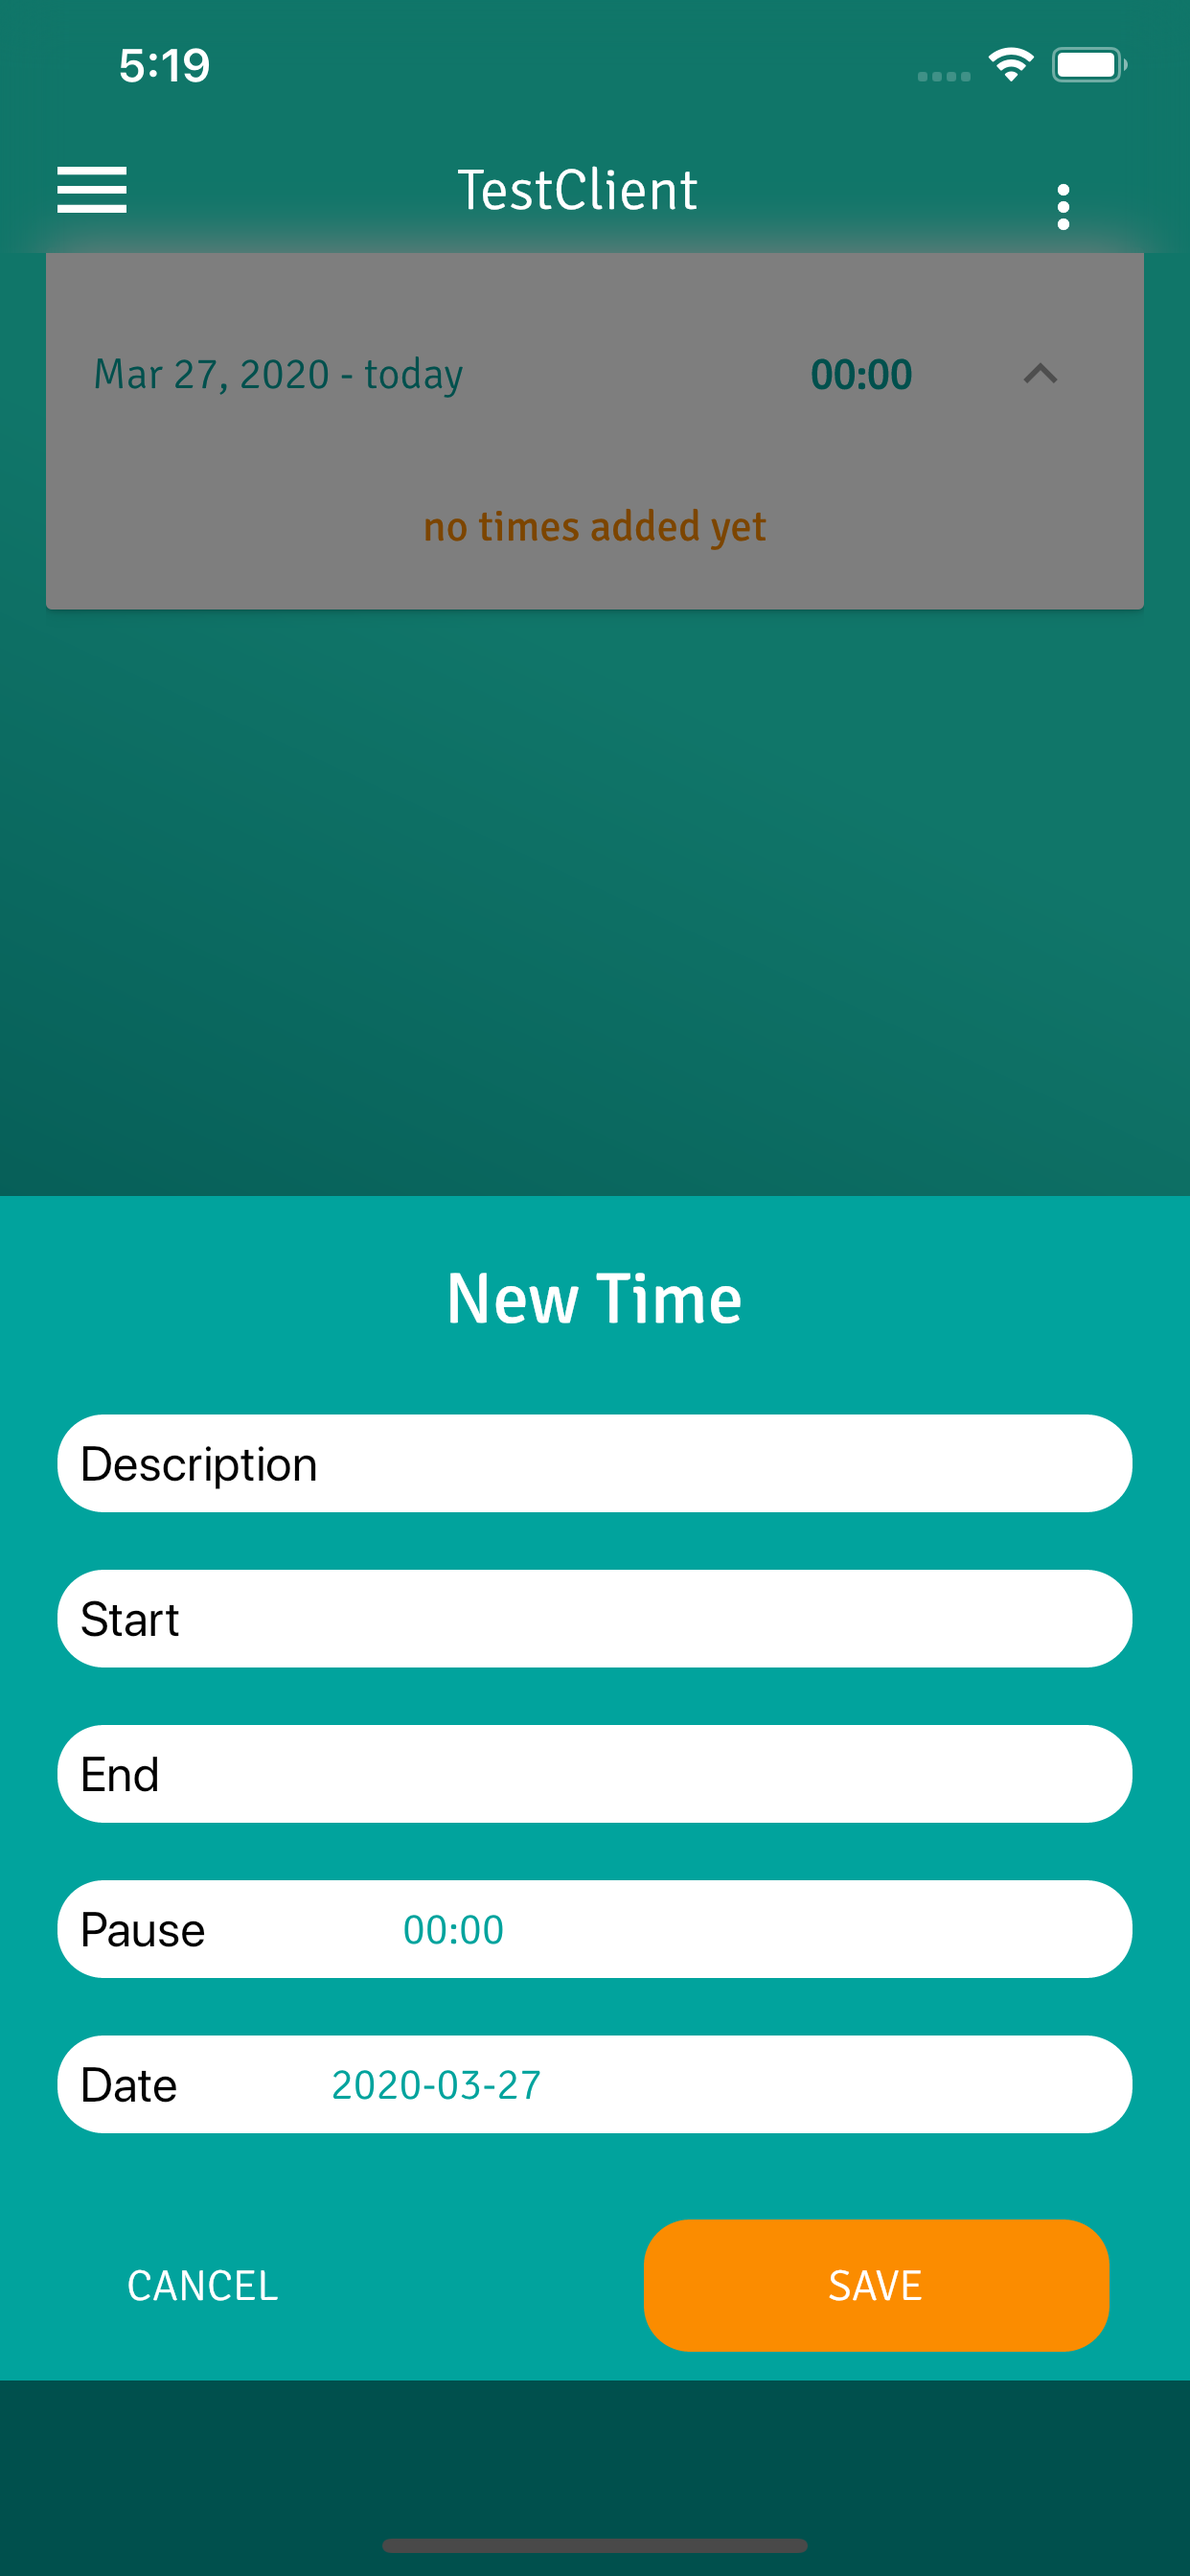
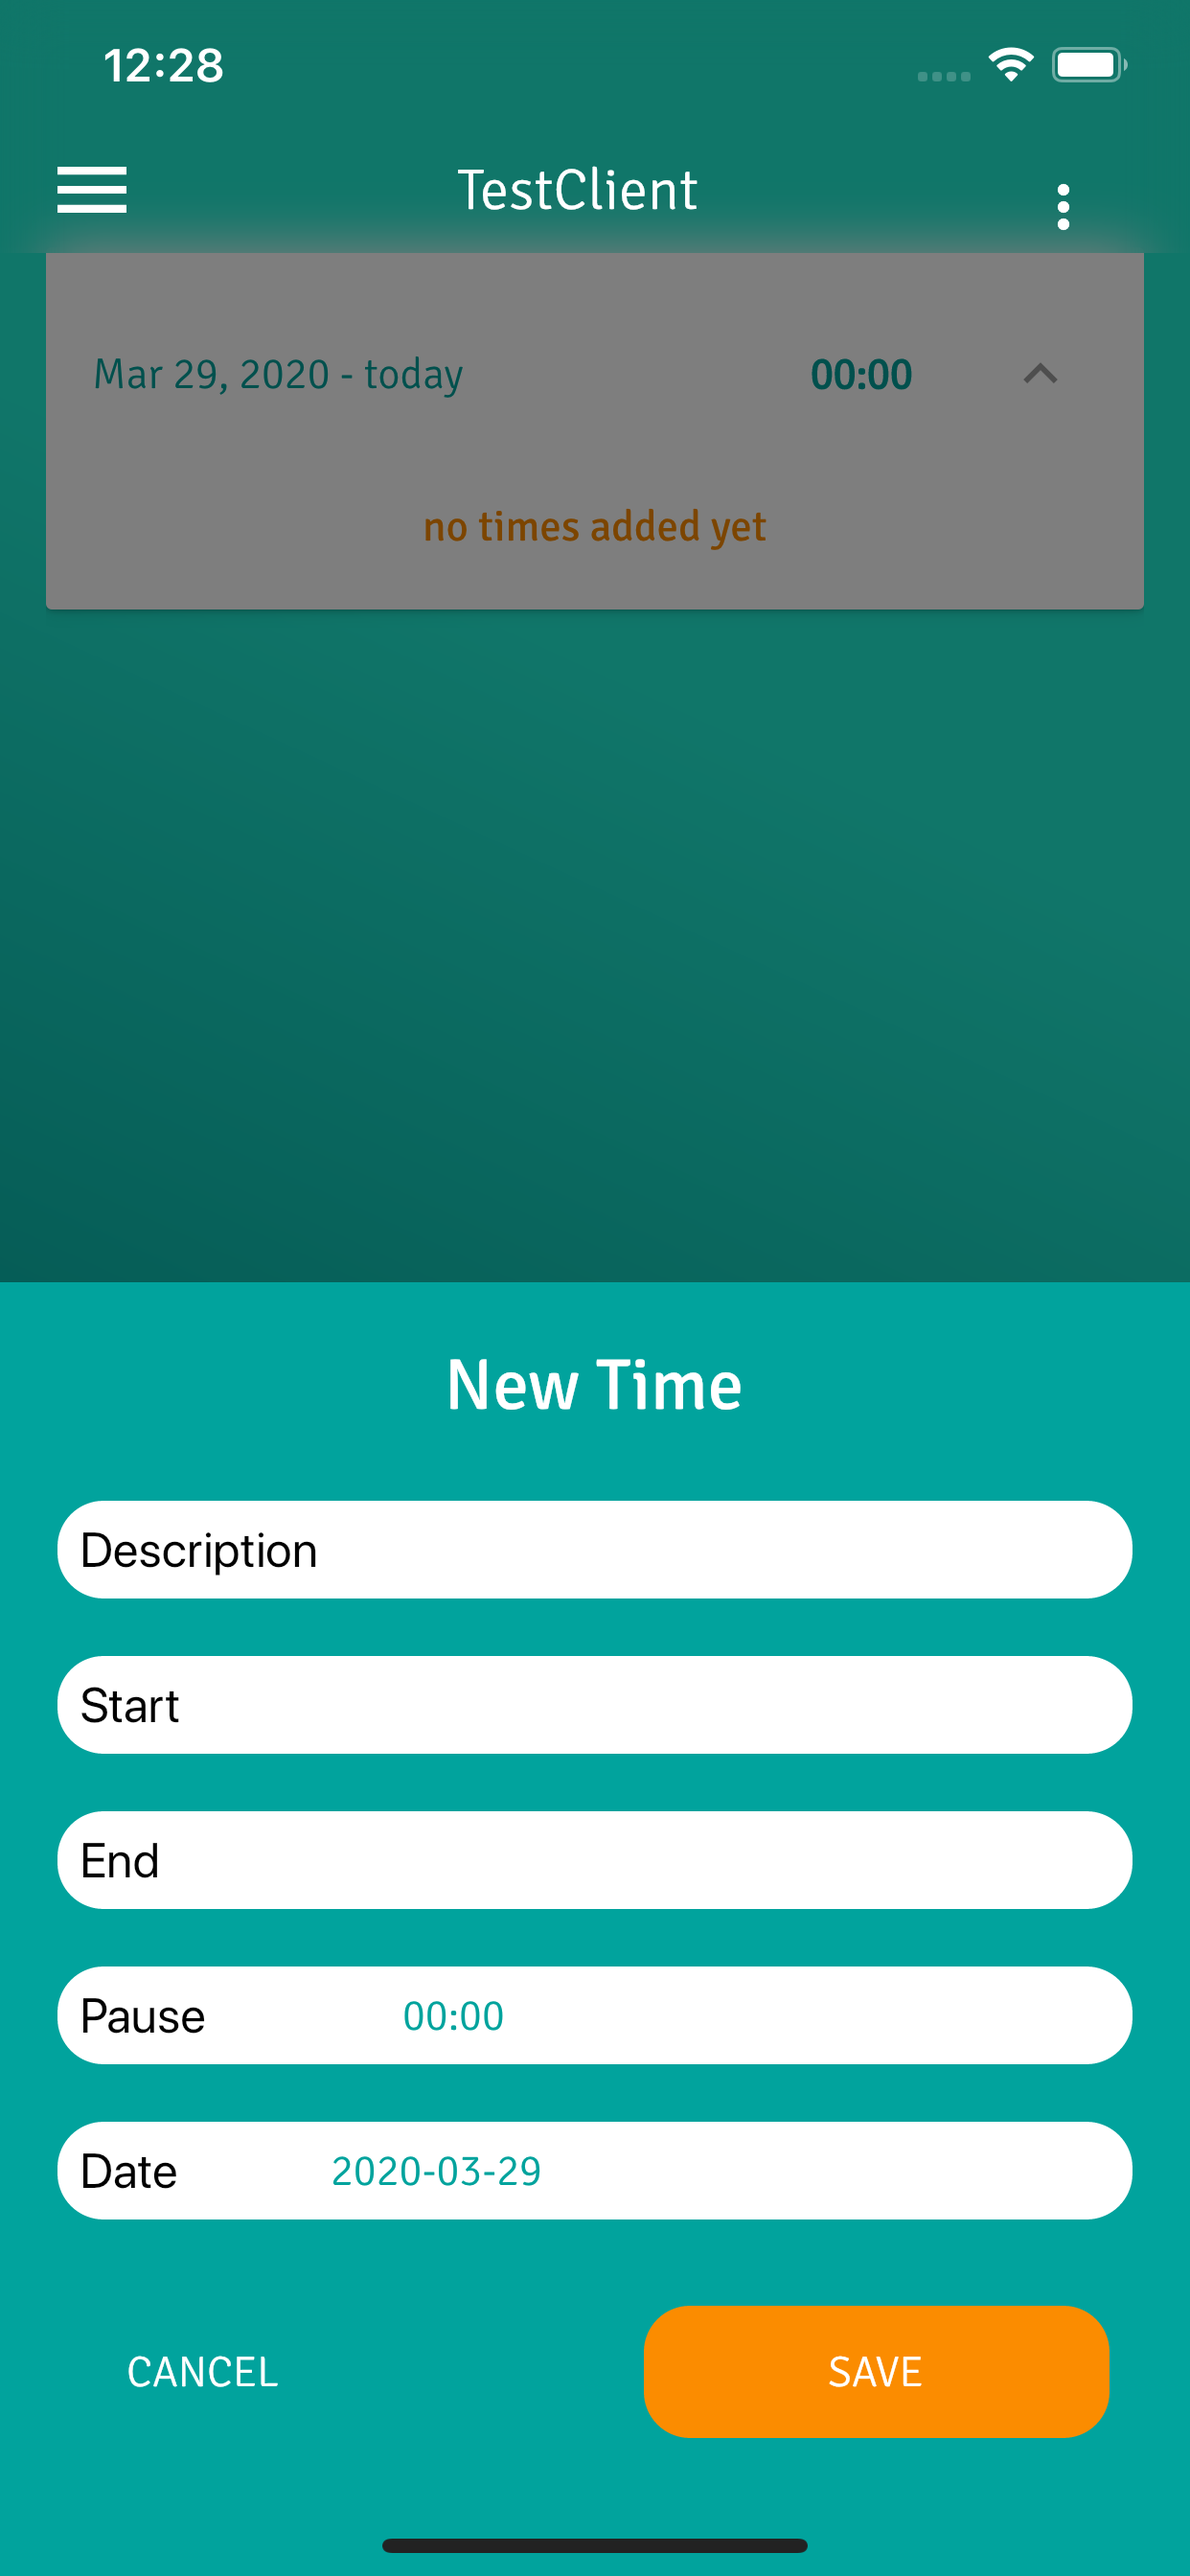
ui fixes

diff --git a/lib/screens/dialog/finish_timesheet.dart b/lib/screens/dialog/finish_timesheet.dart
@@ -1,6 +1,11 @@
+import 'package:flutter/foundation.dart';
 import 'package:flutter/material.dart';
 import 'package:timesheet_flutter/model/client.dart';
 import 'package:timesheet_flutter/model/timesheet.dart';
+import 'package:timesheet_flutter/services/theme.dart';
+import 'package:timesheet_flutter/widgets/platform/dialog.dart';
+import 'package:timesheet_flutter/widgets/platform/dialog_button.dart';
+import 'package:timesheet_flutter/widgets/platform/widget.dart';
 
 class FinishTimesheet extends StatelessWidget {
   final Client client;
@@ -11,29 +16,57 @@ class FinishTimesheet extends StatelessWidget {
 
   @override
   Widget build(BuildContext context) {
-    return AlertDialog(
-      title: Text('Finish Timesheet'),
-      content: SingleChildScrollView(
-        child: ListBody(
-          children: <Widget>[
-            Text('Really finish Timesheet and start a new one?'),
-            Text('You wont be able to add times to it!'),
-          ],
-        ),
-      ),
-      actions: <Widget>[
-        FlatButton(
-          child: Text('Cancel'),
-          onPressed: () => Navigator.of(context).pop(),
-        ),
-        FlatButton(
-          child: Text('Yes'),
-          onPressed: () {
-            client.finishSheet(timesheet);
-            Navigator.of(context).pop();
-          },
-        ),
+    return ListBody(
+      children: <Widget>[
+        Text('Really finish Timesheet and start a new one?'),
+        Text('You wont be able to add times to it!'),
       ],
     );
+  }
+}
+
+showFinishTimesheetDialog(
+    BuildContext context, Client client, Timesheet timesheet) async {
+  final message = await showAlertDialog(
+      context,
+      Text(
+        'Finish Timesheet',
+        textAlign: TextAlign.center,
+        style: prettyTheme(context).copyWith(color: accent(context)),
+      ),
+      FinishTimesheet(
+        client: client,
+        timesheet: timesheet,
+      ),
+      [
+        DialogButton(
+          color: fg(context),
+          child: Text(
+            'Cancel',
+            style: textTheme(context)
+                .copyWith(color: isIos ? accent(context) : fg(context)),
+          ),
+          onTap: () => Navigator.of(context).pop(),
+        ),
+        DialogButton(
+          primary: true,
+          color: accent(context),
+          child: Text(
+            'Yes',
+            style: textTheme(context)
+                .copyWith(color: isIos ? accent(context) : null),
+          ),
+          onTap: () {
+            client.finishSheet(timesheet);
+            Navigator.of(context).pop("finished timesheet");
+          },
+        ),
+      ]);
+  if (message != null) {
+    if (defaultTargetPlatform == TargetPlatform.android) {
+      Scaffold.of(context).showSnackBar(SnackBar(
+        content: Text(message),
+      ));
+    }
   }
 }

diff --git a/lib/screens/landscape_mobile.dart b/lib/screens/landscape_mobile.dart
@@ -35,19 +35,24 @@ class LandscapeMobile extends StatelessWidget {
                   verticalDirection: VerticalDirection.down,
                   children: <Widget>[
                     Expanded(
-                        flex: 3,
+                        flex: 5,
                         child: Padding(
                           padding: const EdgeInsets.only(left: 8, top: 6),
-                          child: ClientOverview(clients.current),
+                          child: ClientOverview(
+                            clients.current,
+                            noBottomSheet: true,
+                          ),
                         )),
                     Flexible(
+                      flex: 2,
                       child: Padding(
-                        padding: const EdgeInsets.only(right: 4, top: 2),
+                        padding: const EdgeInsets.only(
+                            right: 4, top: kToolbarHeight),
                         child: Card(
                           color: bg(_),
                           child: SingleChildScrollView(
                             child: Column(
-                              mainAxisSize: MainAxisSize.min,
+                              mainAxisSize: MainAxisSize.max,
                               children: <Widget>[
                                 SizedBox(height: 12),
                                 Text(

diff --git a/lib/widgets/platform/dropdown_field.dart b/lib/widgets/platform/dropdown_field.dart
@@ -10,6 +10,7 @@ class Dropdown<T> extends StatelessWidget {
   final String Function(T) validator;
   final dynamic Function(dynamic) onChange;
   final String placeholder;
+  final Color color;
 
   const Dropdown(
       {Key key,
@@ -17,7 +18,8 @@ class Dropdown<T> extends StatelessWidget {
       this.items,
       this.validator,
       this.placeholder,
-      this.onChange})
+      this.onChange,
+      this.color})
       : super(key: key);
 
   @override
@@ -25,11 +27,18 @@ class Dropdown<T> extends StatelessWidget {
     return PlatformWidget(
       ios: (context) => c.CupertinoButton(
         borderRadius: BorderRadius.zero,
-        color: fg(context),
+        color: this.color ?? fg(context),
         padding: c.EdgeInsets.symmetric(horizontal: 32),
-        child: Text(
-          value.toString(),
-          style: TextStyle(color: accent(context)),
+        child: c.Row(
+          mainAxisSize: c.MainAxisSize.max,
+          mainAxisAlignment: c.MainAxisAlignment.center,
+          children: <c.Widget>[
+            Text(
+              value.toString(),
+              style: TextStyle(color: fgInverted(context)),
+            ),
+            Icon(Icons.arrow_drop_down)
+          ],
         ),
         onPressed: () => c.showCupertinoModalPopup(
           context: context,

diff --git a/lib/widgets/app_bar.dart b/lib/widgets/app_bar.dart
@@ -11,7 +11,6 @@ import 'package:timesheet_flutter/widgets/device.dart';
 import 'package:timesheet_flutter/widgets/drawer.dart';
 import 'package:timesheet_flutter/widgets/platform/button.dart';
 import 'package:timesheet_flutter/widgets/platform/nav_bar.dart';
-import 'package:timesheet_flutter/widgets/platform/widget.dart';
 
 class NavBar extends StatelessWidget
     implements PreferredSizeWidget, ObstructingPreferredSizeWidget {
@@ -21,7 +20,6 @@ class NavBar extends StatelessWidget
         : clients.clients.length == 1
             ? Container(
                 width: MediaQuery.of(context).size.width - 80,
-                color: isIos ? fg(context) : null,
                 height: 60,
                 child: Center(
                   child: Text(
@@ -67,7 +65,6 @@ class NavBar extends StatelessWidget
                   Flexible(
                     child: Container(
                         margin: EdgeInsets.only(right: 12),
-                        color: Colors.grey[300],
                         child: _chooser(context, clients)),
                   )
                 ],

diff --git a/lib/widgets/form/duration_field.dart b/lib/widgets/form/duration_field.dart
@@ -25,7 +25,7 @@ class DurationField extends StatelessWidget {
   _showDialog(BuildContext context, Duration value) async {
     SystemChannels.textInput.invokeMethod('TextInput.hide');
 
-    Duration duration;
+    Duration duration = Duration(hours: 0, minutes: 0);
 
     switch (defaultTargetPlatform) {
       case TargetPlatform.iOS:
@@ -43,7 +43,7 @@ class DurationField extends StatelessWidget {
                 onTimerDurationChanged: (Duration pause) {
                   duration = pause;
                 },
-                initialTimerDuration: value ?? Duration(hours: 0, minutes: 0),
+                initialTimerDuration: value ?? duration,
                 minuteInterval: 5,
                 mode: CupertinoTimerPickerMode.hm,
                 alignment: Alignment.bottomCenter,
@@ -56,7 +56,7 @@ class DurationField extends StatelessWidget {
         duration = await showDurationPicker(
           context: context,
           snapToMins: 5.0,
-          initialTime: value ?? Duration(hours: 0, minutes: 0),
+          initialTime: value ?? duration,
         );
     }
 

diff --git a/lib/widgets/platform/time_input.dart b/lib/widgets/platform/time_input.dart
@@ -46,7 +46,7 @@ class TimeInput extends StatelessWidget {
   _onTap(BuildContext context) async {
     SystemChannels.textInput.invokeMethod('TextInput.hide');
 
-    TimeOfDay time;
+    TimeOfDay time = TimeOfDay.now();
 
     switch (defaultTargetPlatform) {
       case TargetPlatform.iOS:
@@ -54,8 +54,8 @@ class TimeInput extends StatelessWidget {
             DateTime.now().year,
             DateTime.now().month,
             DateTime.now().day,
-            (initial ?? TimeOfDay.now()).hour,
-            (initial ?? TimeOfDay.now()).minute);
+            (initial ?? time).hour,
+            (initial ?? time).minute);
         await showCupertinoModalPopup(
           context: context,
           builder: (_) => Container(
@@ -89,7 +89,7 @@ class TimeInput extends StatelessWidget {
               child: child,
             );
           },
-          initialTime: initial ?? TimeOfDay.now(),
+          initialTime: initial ?? time,
         );
 
         if (time != null) {

diff --git a/lib/screens/client.dart b/lib/screens/client.dart
@@ -10,8 +10,10 @@ import 'package:timesheet_flutter/widgets/timesheet_panel.dart';
 class ClientOverview extends StatefulWidget {
   final Client client;
   final bool secondary;
+  final bool noBottomSheet;
 
-  ClientOverview(this.client, {this.secondary = false});
+  ClientOverview(this.client,
+      {this.secondary = false, this.noBottomSheet = false});
 
   @override
   _ClientOverviewState createState() => _ClientOverviewState();
@@ -88,7 +90,9 @@ class _ClientOverviewState extends State<ClientOverview> {
     }
 
     return Container(
-      margin: EdgeInsets.only(bottom: 158, top: kToolbarHeight + 30),
+      margin: EdgeInsets.only(
+          bottom: widget.noBottomSheet ? 0 : 70,
+          top: widget.noBottomSheet ? kToolbarHeight : kToolbarHeight + 30),
       padding: EdgeInsets.symmetric(horizontal: 16),
       child: _content(context),
     );

diff --git a/lib/widgets/platform/button.dart b/lib/widgets/platform/button.dart
@@ -20,15 +20,23 @@ class RaisedButton extends StatelessWidget {
   final Color color;
   final Function() onPressed;
   final String tooltip;
+  final double padding;
 
   const RaisedButton(
-      {Key key, this.color, this.onPressed, this.child, this.tooltip})
+      {Key key,
+      this.color,
+      this.onPressed,
+      this.child,
+      this.tooltip,
+      this.padding})
       : super(key: key);
 
   @override
   Widget build(BuildContext context) {
     return PlatformWidget(
       ios: (context) => CupertinoButton(
+        padding:
+            padding != null ? EdgeInsets.symmetric(horizontal: padding) : null,
         borderRadius: buttonBorderRadius,
         color: onPressed == null ? fg(context) : accent(context),
         disabledColor: brightness(context) == Brightness.dark

diff --git a/lib/widgets/bottom_sheet.dart b/lib/widgets/bottom_sheet.dart
@@ -2,6 +2,7 @@ import 'package:flutter/material.dart';
 import 'package:flutter/services.dart';
 import 'package:flutter/widgets.dart';
 import 'package:sliding_up_panel/sliding_up_panel.dart';
+import 'package:timesheet_flutter/services/theme.dart';
 
 class SlidingBottomSheet extends StatelessWidget {
   final double height;
@@ -28,10 +29,10 @@ class SlidingBottomSheet extends StatelessWidget {
       },
       borderRadius: BorderRadius.only(
           topLeft: Radius.circular(16), topRight: Radius.circular(16)),
-      color: Colors.transparent,
+      color: fg(context),
       boxShadow: [],
       minHeight: height,
-      maxHeight: 480,
+      maxHeight: 450,
       controller: controller,
       collapsed: collapsed,
       backdropEnabled: true,

diff --git a/lib/widgets/timeheet_actions.dart b/lib/widgets/timeheet_actions.dart
@@ -81,14 +81,7 @@ class TimesheetActions extends StatelessWidget {
               ],
             ),
             onPressed: () async {
-              await showDialog<void>(
-                context: context,
-                barrierDismissible: false, // user must tap button!
-                builder: (BuildContext context) => FinishTimesheet(
-                  client: client,
-                  timesheet: timesheet,
-                ),
-              );
+              await showFinishTimesheetDialog(context, client, timesheet);
             }),
       );
     }

diff --git a/lib/widgets/time_add_form.dart b/lib/widgets/time_add_form.dart
@@ -176,7 +176,6 @@ class TimeAddForm extends StatelessWidget {
             style: textTheme(context).copyWith(color: Colors.white),
           ),
           onPressed: () {
-            // TODO restore initial time!
             timesheet.setCurrentTime(Time());
             try {
               sheet.close();
@@ -184,6 +183,7 @@ class TimeAddForm extends StatelessWidget {
           },
         ),
         RaisedButton(
+          padding: dense ? 16 : null,
           color: Colors.white,
           onPressed: time.valid
               ? () {

diff --git a/lib/screens/landscape_tablet.dart b/lib/screens/landscape_tablet.dart
@@ -38,7 +38,8 @@ class LandscapeTablet extends StatelessWidget {
                         flex: 3,
                         child: Padding(
                           padding: const EdgeInsets.only(left: 16, top: 4),
-                          child: ClientOverview(clients.current),
+                          child: ClientOverview(clients.current,
+                              noBottomSheet: true),
                         )),
                     SizedBox(width: 12),
                     Flexible(
